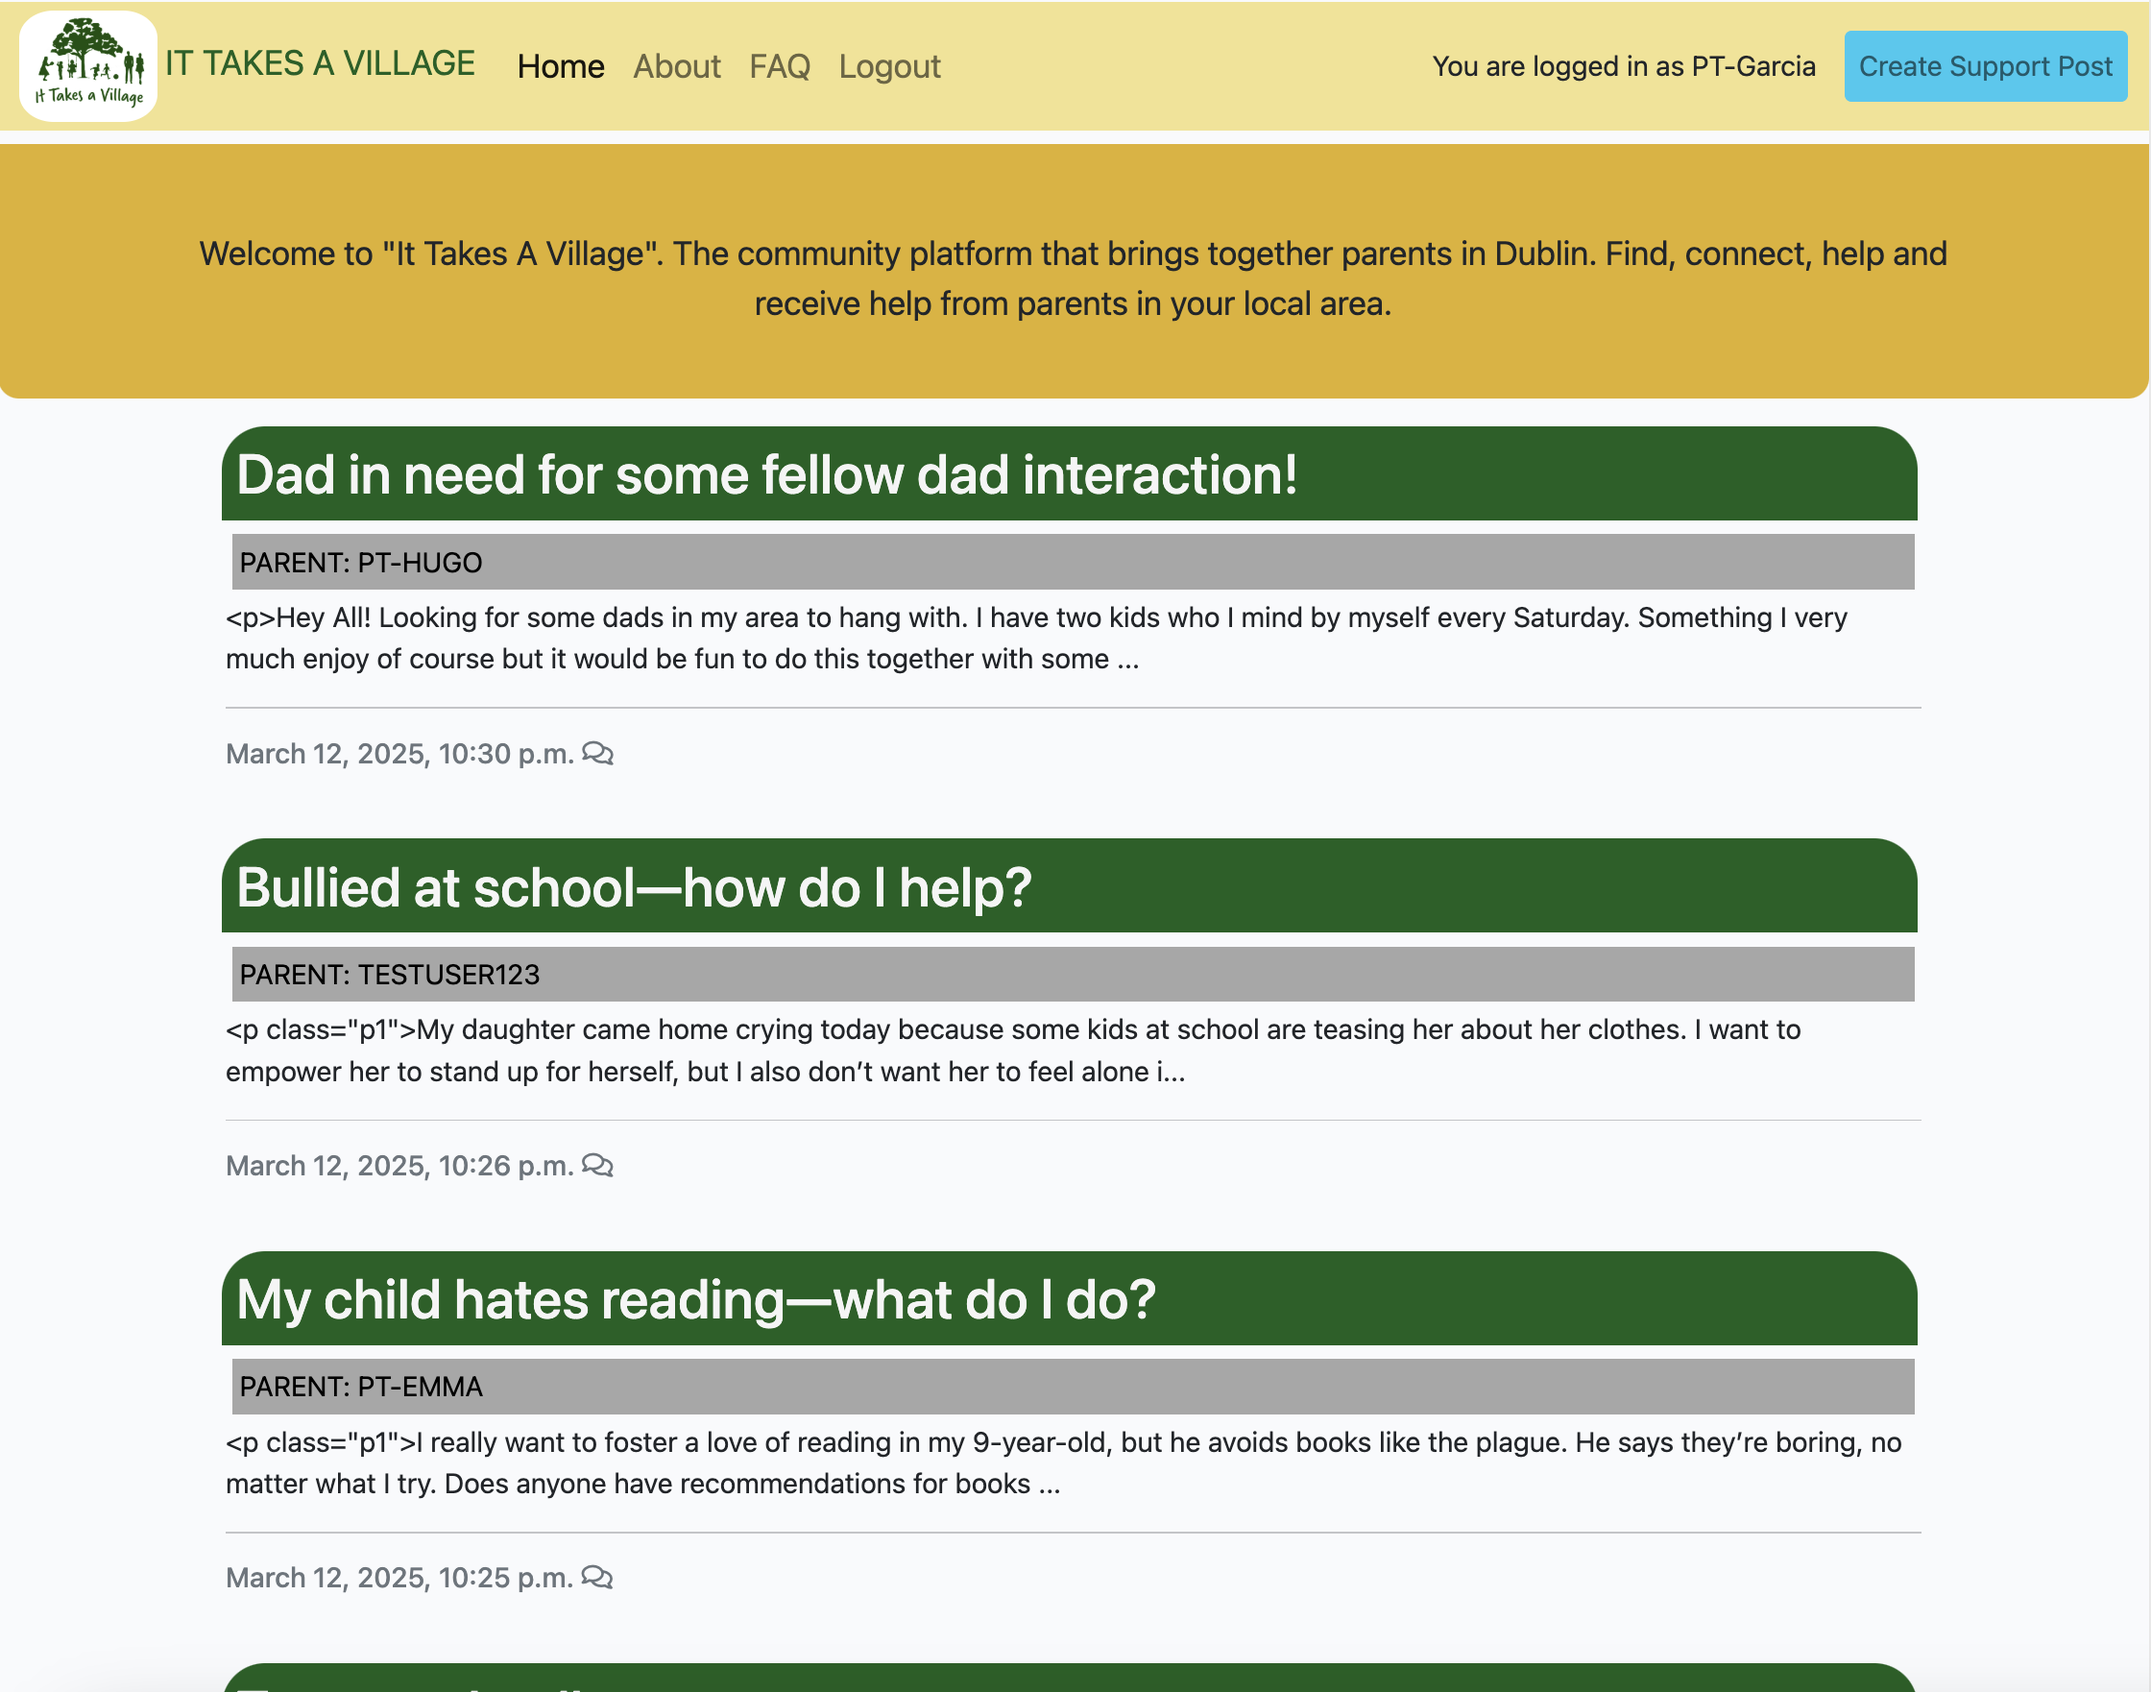
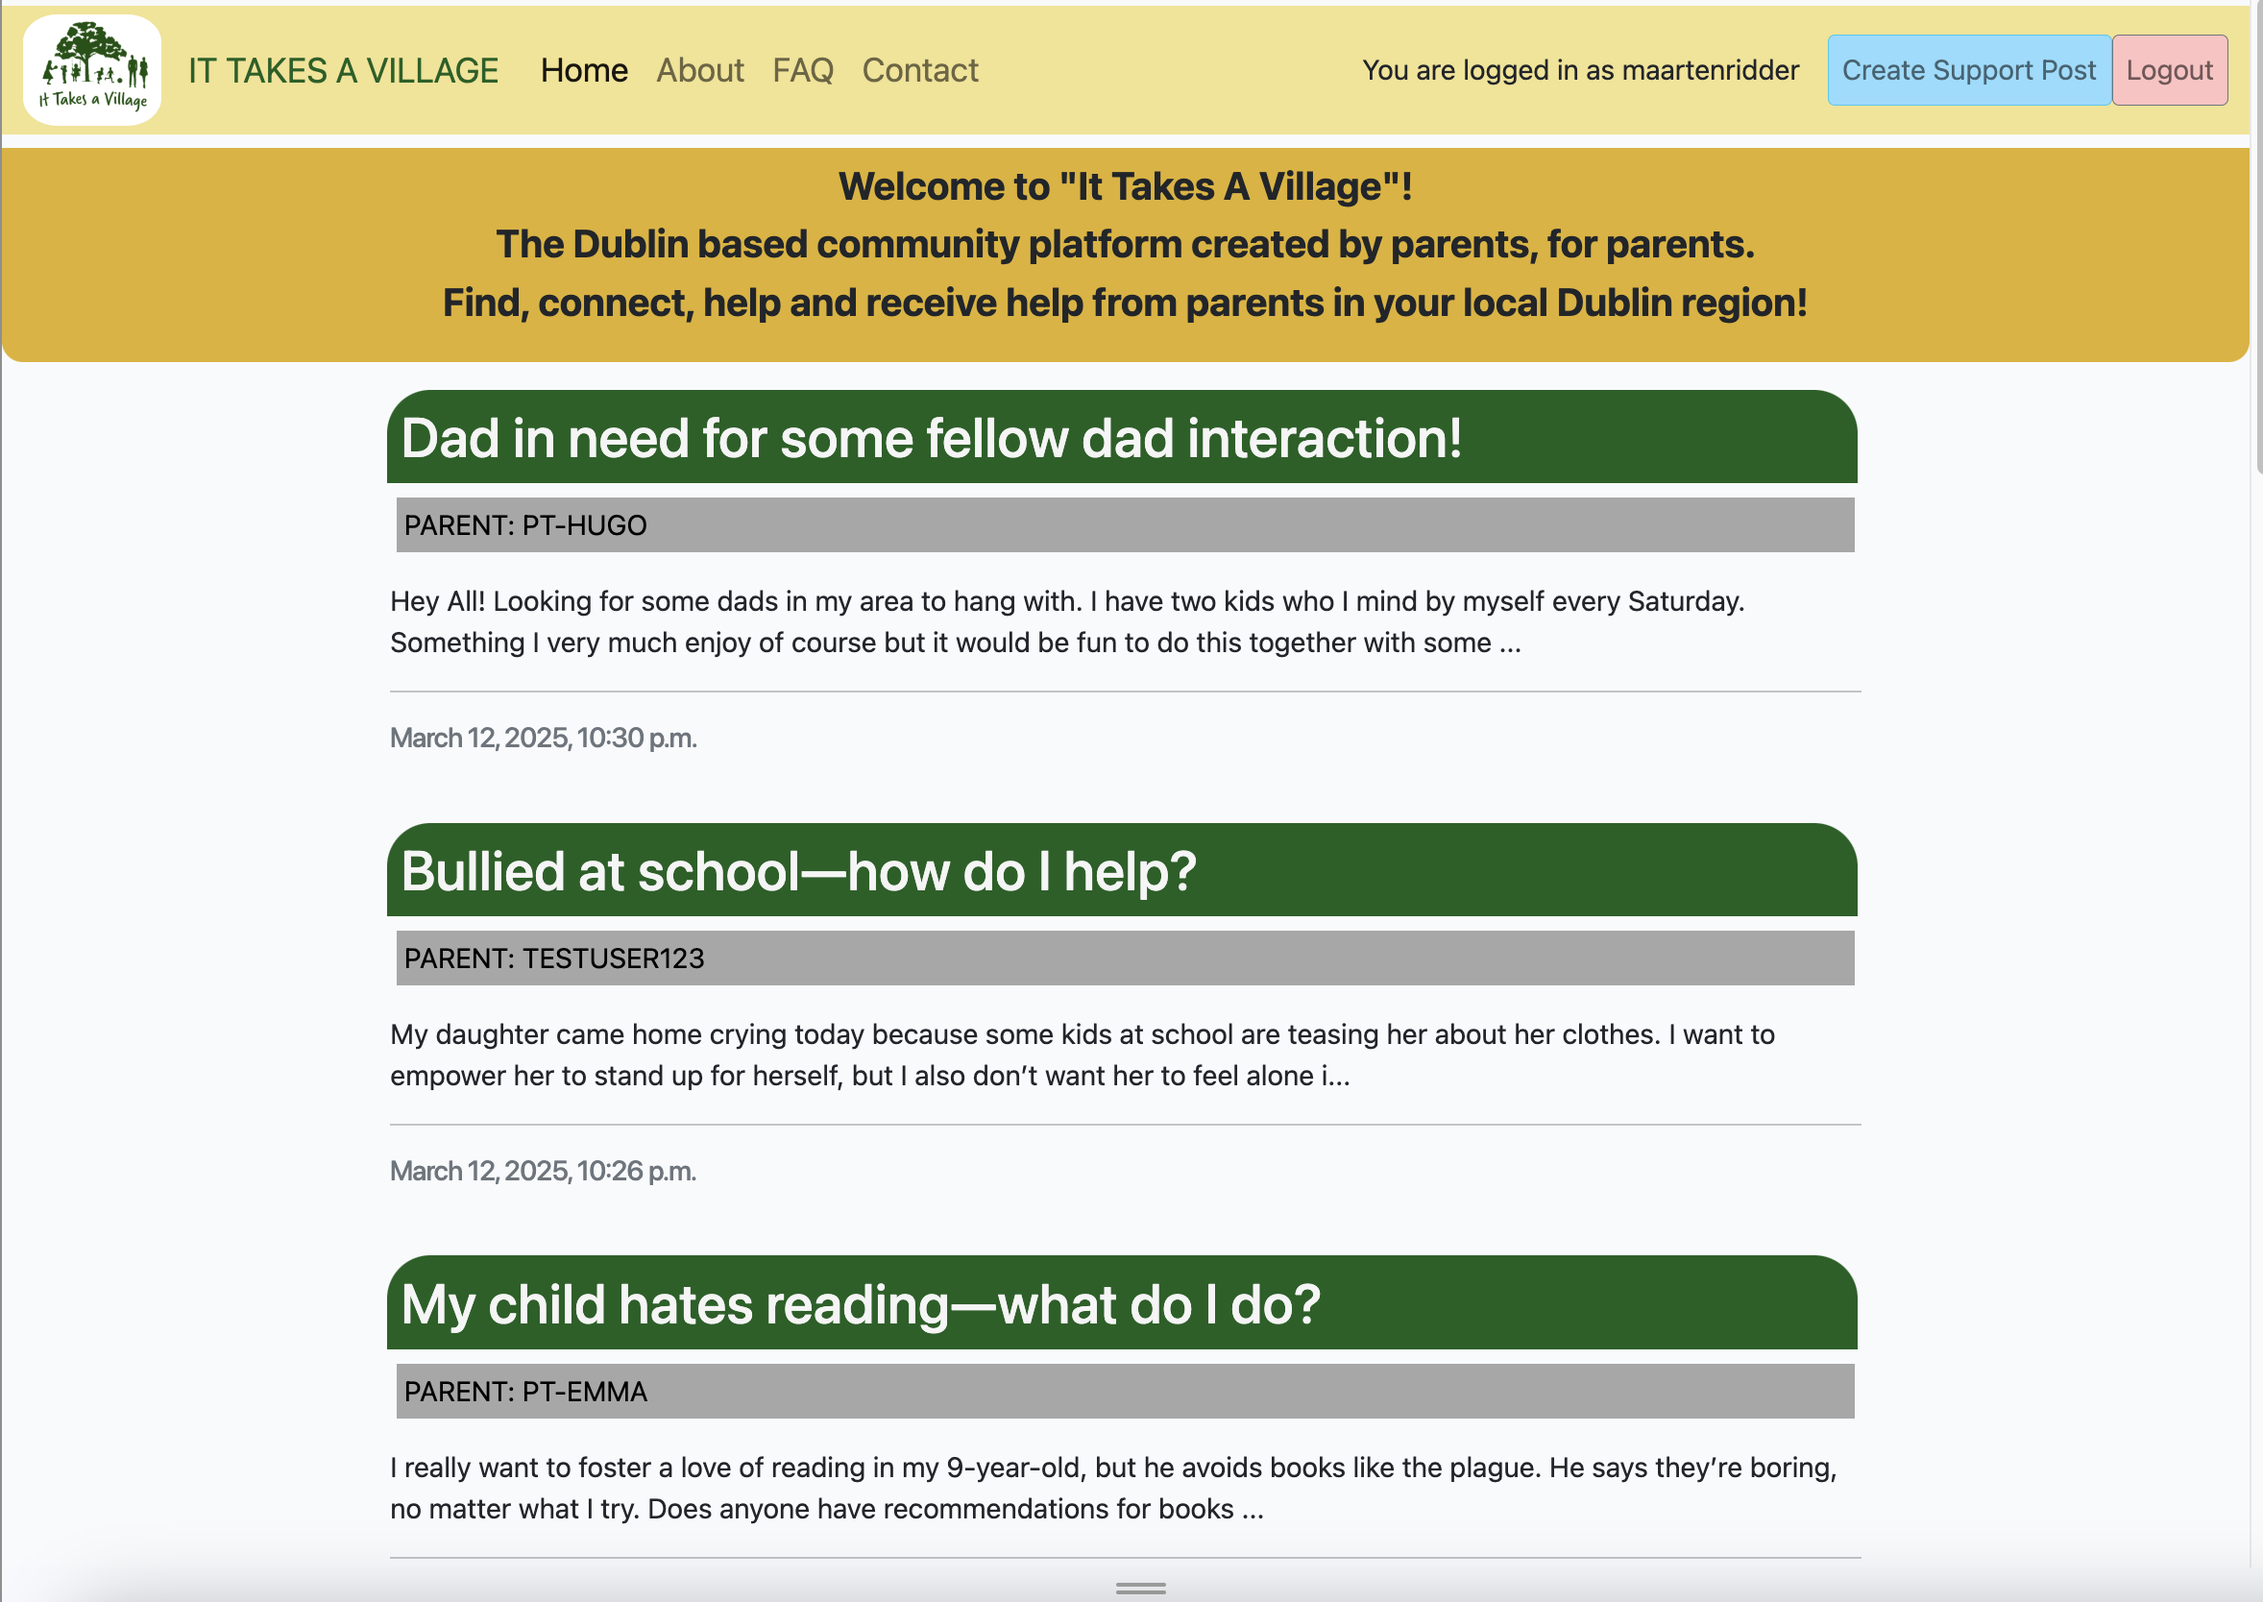
update Readme screenshots to current

Changed region(s): [[0.0, 0.0, 1.0, 1.0]]

diff --git a/support/test_views.py b/support/test_views.py
@@ -59,7 +59,10 @@ class TestSupportPost(TestCase):
 
         self.support_post = Support(
             topic="The question that I have",
-            content="hesitate",
+            content="content about topic",
+            region="Not specified",
+            age_group="Not specified",
+            type_of_request="not specified",
             parent=self.user)
         self.support_post.save()
 
@@ -70,19 +73,3 @@ class TestSupportPost(TestCase):
         self.assertEqual(response.status_code, 200)
         self.assertIsInstance(
             response.context['support_form'], SupportForm)
-
-    def test_successful_support_form_submission(self):
-        """Test for a user completed support form"""
-
-        # support_post = {
-        #     'topic': 'The ask that I have',
-        #     'content': 'content about topic',
-        #     'region': 'Not specified',
-        #     'age_group': 'Not specified',
-        #     'type_of_request': 'not specified'
-        # }
-
-        response = self.client.post('/support_post/', self.support_post, follow=True)
-        messages = list(get_messages(response.wsgi_request))
-        self.assertEqual(len(messages), 1)
-        self.assertEqual(str(messages[0]), 'Your Support post has been submitted and is awaiting approval.')

diff --git a/support/views.py b/support/views.py
@@ -119,17 +119,13 @@ def support_post(request):
     if request.method == "POST":
         support_form = SupportForm(data=request.POST)
         if support_form.is_valid():
-            print('form is valid')
             userpost = support_form.save(commit=False)
             userpost.parent = request.user
             userpost.save()
             messages.add_message(
                 request, messages.SUCCESS,
-                'Your Support post has been submitted and is awaiting approval.'
+                'Your Support post has been submitted and is awaiting approval'
             )
-        else:
-            print('Support form is invalid')
-            print(support_form.errors)
 
     support_form = SupportForm()
 

diff --git a/README.md b/README.md
@@ -156,7 +156,7 @@ Parenting is a rewarding but challenging journey, and no one should have to do i
 <details>
 <summary>Wireframe - Desktop - Homepage</summary>  
 
-![Wireframe - Desktop - Homepage](//static/images/README-images/wireframe-v-desktop-homepage.png)
+![Wireframe - Desktop - Homepage](/static/images/README-images/wireframe-v-desktop-homepage.png)
 </details> 
 
 <details>
@@ -224,18 +224,18 @@ Parenting is a rewarding but challenging journey, and no one should have to do i
 
 The Navbar adjusts to the screensize and uses a burger Icon to hide the menu on smaller screens.
  
- ![Navbar Desktop Not Logged in](/static/images/README-images/navbar-v-desktop-not-logged-in.png)
- ![Navbar Desktop Logged in](/static/images/README-images/navbar-v-desktop-logged-in.png)
- ![Navbar mobile](/static/images/README-images/navbar-v-mobile.png)
+ ![Navbar Desktop Not Logged in](/static/images/README-images/navbar-desktop-not-logged-in.png)
+ ![Navbar Desktop Logged in](/static/images/README-images/navbar-desktop-logged-in.png)
+ ![Navbar mobile](/static/images/README-images/navbar-mobile-collapsed.png)
  <details>
 <summary>Navbar Mobile menu not logged in</summary>  
 
-![Navbar Mobile menu not logged in](/static/images/README-images/navbar-v-mobile-menu-not-logged-in.png)
+![Navbar Mobile menu not logged in](/static/images/README-images/navbar-mobile-menu-not-logged-in.png)
 </details> 
  <details>
 <summary>Navbar Mobile menu logged in</summary>  
 
-![Navbar Mobile menu logged in](/static/images/README-images/navbar-v-mobile-menu-logged-in.png)
+![Navbar Mobile menu logged in](/static/images/README-images/navbar-mobile-menu-logged-in.png)
 </details> 
 
 
